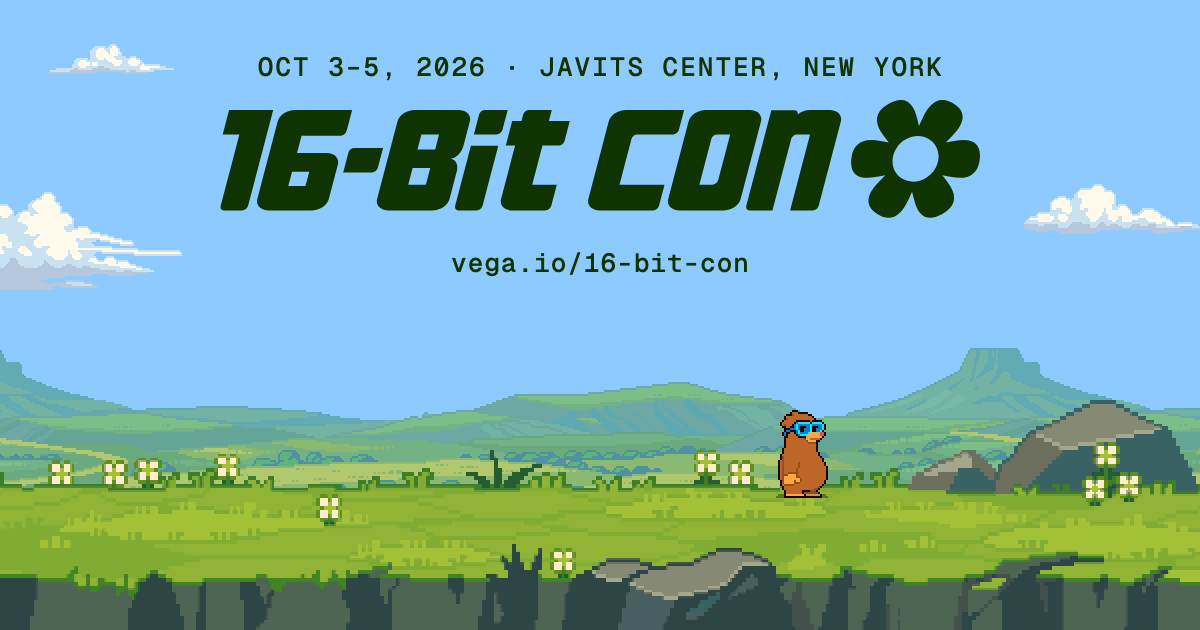
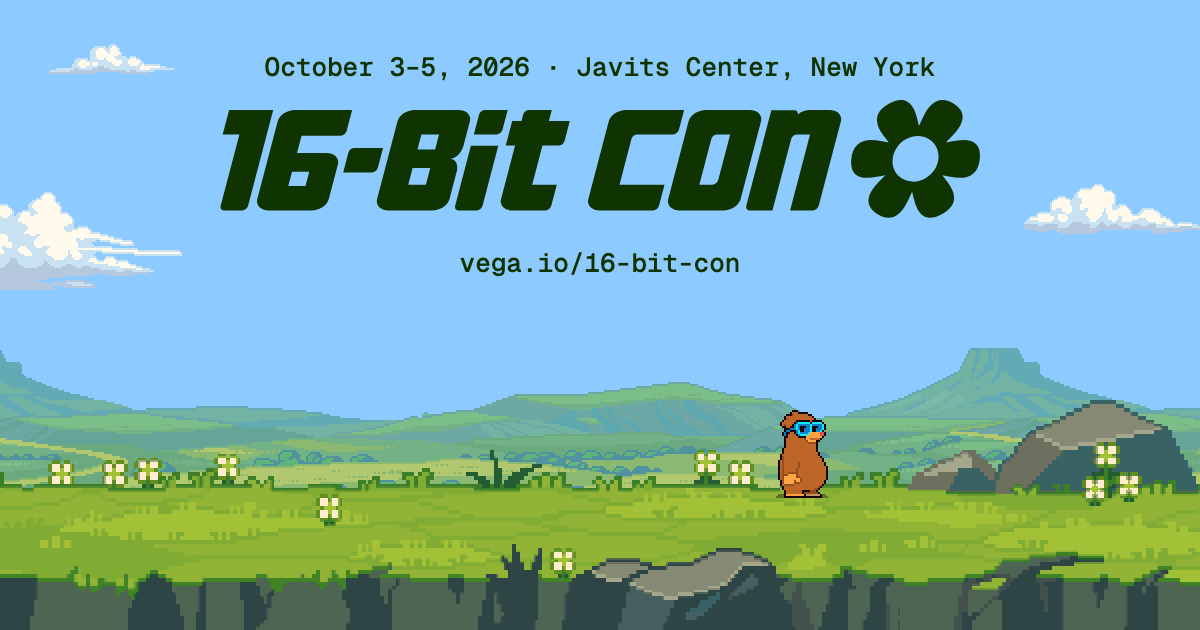
Bugs: phone taps, page width, the 404's shift, the build scripts, no-JavaScript, and nine of state and timing
- Phone: Exit game and the sound button take taps in the run (the hidden prompt lay over them).
- Phone: the dog's layer no longer makes the page wider than the screen.
- 404: nothing moves as the sky draws; the fonts it sets type in are the ones preloaded.
- Icons and social image: the scripts read the wordmark's paths again; the social image in sentence case.
- Without JavaScript: every session laid out, and no bubble for a Sam nothing can draw.
- Register: a second Enter cannot register twice; the email example is Sam's.
- Start: a double click no longer restarts the dive. Esc waits for Skip's fade; the dialog holds the zoom.
- Dialogs: the step out ends on the dialog's own animation, and its fallback timer is cleared.
- Load: a reader already scrolling is not pulled back to the top; Sam's scale holds through a toolbar resize.
- Reduced motion switched on mid-visit: the beanstalk stays gone.
- Resize: only the latest crack layout is built; the drawer hears every pixel-ratio change.
- Nav: the landmark is named Primary. The close square darkens on hover.
- Sam stays on the Register window while there is room for him under the nav.

Changed region(s): [[0.2158, 0.0905, 0.8017, 0.1206], [0.37, 0.3921, 0.6167, 0.4524]]

diff --git a/src/game/journey.ts b/src/game/journey.ts
@@ -2,9 +2,9 @@
  * Sam out on the page, once he has broken out of the game and landed on the Register window.
  *
  * Wide screens: Vega's beanstalk grows from the footer's field up past the top of the page
- * (src/game/stalk.ts). Once the Register window's title bar passes a line a little above the middle of the
- * screen (LINE), Sam jumps onto the stalk and climbs toward that line wherever the page goes: down as it scrolls
- * down, up as it scrolls up. He has his own pace (CLIMB_PACE): a fast scroll leaves him behind and he
+ * (src/game/stalk.ts). Sam stays on the Register window for as long as he and his bubble have room there under
+ * the nav. Once its title bar comes nearer the nav than that, he jumps onto the stalk and climbs toward a line a
+ * little above the middle of the screen (LINE) wherever the page goes: down as it scrolls down, up as it scrolls up. He has his own pace (CLIMB_PACE): a fast scroll leaves him behind and he
  * catches up, his climb's frames following his own movement. Near the end of the page he climbs down to the
  * footer's field, jumps off, takes a few steps and smokes; back up, he walks back, jumps on and climbs, and
  * he climbs to the window's height and jumps back onto it. Scrolled up past the window (its title bar under
@@ -28,7 +28,7 @@ import { startSky } from './sky';
 import { startDog } from './dog';
 import { CLIMB_HANDS } from '../schedule/kit';
 
-/** The line he climbs toward, as a fraction of the screen's height (above it, the Register window lets him go). */
+/** The line he climbs toward on the stalk, as a fraction of the screen's height. */
 const LINE = 0.45;
 /** Scrolling up: once the Register window's title bar sinks under this line, he leaves it and climbs up the stalk. */
 const LINE_LOW = 0.9;
@@ -95,7 +95,7 @@ interface Geo {
   L: number;
   /** The footer's ground line, page px. */
   G: number;
-  /** He leaves the window past scroll sA; the ground is his from sG. */
+  /** He leaves the window past scroll sA (no room left for him under the nav); the ground is his from sG. */
   sA: number;
   /** Above the window: scrolled up past sB (its title bar under LINE_LOW), he climbs up the stalk instead. */
   sB: number;
@@ -183,11 +183,16 @@ export async function startJourney(o: JourneyOptions): Promise<{ debug(): unknow
     const vh = window.innerHeight;
     const pr = pageRect(perch.root);
     const reg = document.getElementById('register');
-    // a little above the middle of the screen: he leaves the window once its title bar passes it
     const L = LINE * vh;
     const G = footerGroundY(scene!);
     const sMax = Math.max(0, document.documentElement.scrollHeight - vh);
-    const sA = pr.bottom - L;
+    // He leaves the window once its title bar is too near the nav for him and his bubble to stand clear of it
+    // (never later than his own line on the stalk, on a screen too short for both).
+    const navFoot = document.querySelector('.nav-slot')?.getBoundingClientRect().bottom ?? 0;
+    const bubble = perch.root.querySelector<HTMLElement>('[data-landing-bubble]');
+    // (his bubble stands 24 art px over the bar: index.astro .landing__bubble)
+    const room = Math.max((SAM_CELL - FOOT_SINK) * a, bubble ? 24 * a + bubble.offsetHeight : 0);
+    const sA = pr.bottom - Math.min(L, navFoot + room);
     const sB = pr.bottom - LINE_LOW * vh;
     const sG = Math.max(sA + 1, Math.min(G - vh + 32, sMax - GROUND_SLACK));
     // The stalk in the middle of the left margin: his body never nearer than EDGE_GAP to the screen's edge or
@@ -544,6 +549,7 @@ export async function startJourney(o: JourneyOptions): Promise<{ debug(): unknow
     } else if (stalk) stalk.layout(geo.G, geo.stemLeft, o.paused);
   };
   const relayout = () => {
+    if (raf < 0) return; // reduced motion came on: Sam is back on the Register window for good
     geo = measure();
     syncStalk(false);
     placed = '';

diff --git a/src/game/index.ts b/src/game/index.ts
@@ -717,7 +717,7 @@ export async function bootWorld(section: HTMLElement): Promise<void> {
     // the sound's context is made here, inside the click: browsers allow sound only after a gesture
     sound.unlock();
     if (mode === 'default') enterPlay();
-    else if (mode === 'play' && !paused && !zoom) start();
+    else if (mode === 'play' && !paused && !zoom && !playing) start();
   });
 
   let hero3d: Hero | null = null;
@@ -817,6 +817,7 @@ export async function bootWorld(section: HTMLElement): Promise<void> {
       pendingHit = true;
     });
   }
+  let breakoutAsk = 0;
   const layoutHero = () => {
     if (!d || !hero3d) return;
     const b = slotBox(d);
@@ -842,8 +843,12 @@ export async function bootWorld(section: HTMLElement): Promise<void> {
     const centre = h.screenUV(left + SAM_CELL / 2, top + SAM_CELL / 2);
     samOnScreen = { centre, size: Math.abs(h.screenUV(left, top)[1] - h.screenUV(left, top + SAM_CELL)[1]) };
     // The crack pattern starts from him: laid out (and uploaded) in idle time, never on a scroll frame.
+    // Only the latest: a drag-resize asks many times, and each earlier centre is already stale.
     const w = window as IdleWindow;
-    (w.requestIdleCallback ?? ((cb: () => void) => window.setTimeout(cb, 200)))(() => hero3d?.prepareBreakout(centre));
+    const ask = ++breakoutAsk;
+    (w.requestIdleCallback ?? ((cb: () => void) => window.setTimeout(cb, 200)))(() => {
+      if (ask === breakoutAsk) hero3d?.prepareBreakout(centre);
+    });
   };
   /** No 3D after all (no WebGL 2, an error, too slow): the powered-on poster, PRESS START on it. */
   const toStatic = (why: unknown) => {
@@ -1348,7 +1353,8 @@ export async function bootWorld(section: HTMLElement): Promise<void> {
    * itself out in ~2.4 s) Esc does nothing.
    */
   const exitPlay = () => {
-    if (mode !== 'play' || regDialog?.open || exiting) return;
+    // (not in the middle of Skip's fade either: its jump would land in the zoom out)
+    if (mode !== 'play' || regDialog?.open || exiting || skipFade) return;
     cancelOpening();
     const tl = timeline.t;
     const q = qAt(tl);
@@ -1489,6 +1495,7 @@ export async function bootWorld(section: HTMLElement): Promise<void> {
       const away = clockNow() - pausedAt;
       if (playing && playing.t0 >= 0) playing.t0 += away;
       if (breakPlay && breakPlay.t0 >= 0) breakPlay.t0 += away;
+      if (zoom && zoom.t0 >= 0) zoom.t0 += away;
       if (opening && opening.phase !== 'done') {
         opening.t0 += away;
         opening.flyer.shift(away);
@@ -1896,14 +1903,15 @@ export async function bootWorld(section: HTMLElement): Promise<void> {
     // frozen where it is); the monitor at rest on the page, showing the game where the player left it.
     let zoomEnded = false;
     let heroP = inBreakout ? 1 - clamp01(q / BREAKOUT.pullBack[1]) : p;
-    if (zoom) {
+    // (held under the Register dialog like every other play: the camera waits where it was)
+    if (zoom && !(paused && zoom.t0 < 0)) {
       if (zoom.t0 < 0) {
         zoom.t0 = now;
         const lag = frameLag(now);
         cueFor(zoom, zoom.p1 > zoom.p0 ? sound.enter(Math.min(PLAY.dive, playMs(zoom.p1)), lag, glassMs()) : sound.exit(playMs(zoom.p0), lag));
       }
       const dir = zoom.p1 >= zoom.p0 ? 1 : -1;
-      const zp = playP(playMs(zoom.p0) + dir * (now - zoom.t0));
+      const zp = playP(playMs(zoom.p0) + dir * Math.max(0, (paused ? pausedAt : now) - zoom.t0));
       heroP = dir > 0 ? Math.min(zp, zoom.p1) : Math.max(zp, zoom.p1);
       zoomEnded = heroP === zoom.p1;
     } else if (mode === 'default') heroP = 0;

diff --git a/src/game/register-dialog.ts b/src/game/register-dialog.ts
@@ -22,6 +22,19 @@ export function createRegisterDialog(hooks: { onOpen(): void; onClose(): void })
 
   /** Close with its 150 ms step out (at once with reduced motion); Esc, the close square and a click outside all come here. */
   let closing = false;
+  let timer = 0;
+  /** The step out has played (or its time is up): close for real. */
+  const finish = () => {
+    if (!closing) return;
+    closing = false;
+    window.clearTimeout(timer);
+    dialog.classList.remove('is-closing');
+    dialog.close();
+  };
+  // the dialog's own step out, not an animation ending inside it (the form's)
+  dialog.addEventListener('animationend', (e) => {
+    if (e.target === dialog) finish();
+  });
   const close = () => {
     if (!dialog.open || closing) return;
     if (matchMedia('(prefers-reduced-motion: reduce)').matches) {
@@ -30,14 +43,7 @@ export function createRegisterDialog(hooks: { onOpen(): void; onClose(): void })
     }
     closing = true;
     dialog.classList.add('is-closing');
-    const finish = () => {
-      if (!closing) return;
-      closing = false;
-      dialog.classList.remove('is-closing');
-      dialog.close();
-    };
-    dialog.addEventListener('animationend', finish, { once: true });
-    window.setTimeout(finish, 400);
+    timer = window.setTimeout(finish, 400);
   };
   win.querySelector<HTMLButtonElement>('[data-window-close]')?.addEventListener('click', close);
   // Esc: the same step out (a second Esc while it runs closes it at once, as the browser decides)
@@ -52,6 +58,7 @@ export function createRegisterDialog(hooks: { onOpen(): void; onClose(): void })
 
   dialog.addEventListener('close', () => {
     closing = false;
+    window.clearTimeout(timer);
     dialog.classList.remove('is-closing');
     if (marker) {
       marker.replaceWith(win);

diff --git a/src/game/dog.ts b/src/game/dog.ts
@@ -49,8 +49,10 @@ export async function startDog(o: DogOptions): Promise<{ wake(): void } | null> 
   canvas.width = SAM_CELL;
   canvas.height = SAM_CELL;
   el.append(canvas);
-  Object.assign(el.style, { position: 'absolute', left: '0', top: '0', zIndex: '6', pointerEvents: 'none', display: 'none' });
-  Object.assign(canvas.style, { display: 'block', width: '100%', height: '100%', imageRendering: 'pixelated' });
+  // A band as wide as the page that clips what it holds, like the page's sky: the dog trots in from past the
+  // right edge, and a box out there on its own would make the page wider than the screen.
+  Object.assign(el.style, { position: 'absolute', left: '0', top: '0', width: '100%', overflow: 'hidden', zIndex: '6', pointerEvents: 'none', display: 'none' });
+  Object.assign(canvas.style, { display: 'block', imageRendering: 'pixelated' });
   document.body.append(el);
 
   let phase: Phase = 'away';
@@ -172,9 +174,11 @@ export async function startDog(o: DogOptions): Promise<{ wake(): void } | null> 
     const dpr = window.devicePixelRatio || 1;
     const size = SAM_CELL * s;
     const y = footerGroundY(scene) - (SAM_CELL - FOOT_SINK) * s;
-    el.style.width = `${size}px`;
     el.style.height = `${size}px`;
-    el.style.transform = `translate(${Math.round(x * dpr) / dpr}px, ${Math.round(y * dpr) / dpr}px)`;
+    el.style.transform = `translateY(${Math.round(y * dpr) / dpr}px)`;
+    canvas.style.width = `${size}px`;
+    canvas.style.height = `${size}px`;
+    canvas.style.transform = `translateX(${Math.round(x * dpr) / dpr}px)`;
     el.style.display = '';
     return true;
   };

diff --git a/src/game/flyer-dialog.ts b/src/game/flyer-dialog.ts
@@ -17,6 +17,7 @@ export function createFlyerDialog(hooks: { onOpen(): void; onClose(): void; /** 
 
   let closing = false;
   let shown = false;
+  let timer = 0;
   /**
    * Everything after it has closed, once. Called right after close() as well as from the close event: Chrome
    * can close a modal without firing that event (seen after focus had left it and come back), and the game
@@ -26,6 +27,7 @@ export function createFlyerDialog(hooks: { onOpen(): void; onClose(): void; /** 
     if (!shown) return;
     shown = false;
     closing = false;
+    window.clearTimeout(timer);
     dialog.classList.remove('is-closing');
     document.documentElement.classList.remove('is-reading');
     hooks.onClose();
@@ -51,7 +53,7 @@ export function createFlyerDialog(hooks: { onOpen(): void; onClose(): void; /** 
     }
     closing = true;
     dialog.classList.add('is-closing');
-    window.setTimeout(finish, 400);
+    timer = window.setTimeout(finish, 400);
   };
   go.addEventListener('click', close);
   dialog.addEventListener('cancel', (e) => {

diff --git a/src/register/form.ts b/src/register/form.ts
@@ -15,7 +15,7 @@ export type FieldName = 'name' | 'email' | 'pass';
 export const MESSAGES = {
   name: 'Enter your name.',
   emailEmpty: 'Enter your email address.',
-  emailInvalid: 'Enter a valid email address, like name@example.com.',
+  emailInvalid: 'Enter a valid email address, like sam@vega.io.',
   pass: 'Choose a pass.',
 } as const;
 
@@ -160,8 +160,12 @@ export function initRegisterForm(hooks: FormHooks): RegisterFormApi | null {
     };
     submit.removeAttribute('aria-disabled');
     submitText.textContent = 'Register now';
-    busy = false;
-    await hooks.onRegistered(registration);
+    // still busy until the form has given way to the pass: a second Enter meanwhile must not register again
+    try {
+      await hooks.onRegistered(registration);
+    } finally {
+      busy = false;
+    }
   });
 
   // aria-disabled keeps the button focusable while it waits; a click on it then does nothing

diff --git a/src/schedule/drawer.ts b/src/schedule/drawer.ts
@@ -238,7 +238,18 @@ export function bootDrawer(drawer: HTMLElement): void {
   };
   snap();
   new ResizeObserver(snap).observe(document.body);
-  matchMedia(`(resolution: ${window.devicePixelRatio || 1}dppx)`).addEventListener('change', snap);
+  // A query for the pixel ratio as it is now hears only the change away from it, so each change sets the next.
+  const watchRatio = () => {
+    matchMedia(`(resolution: ${window.devicePixelRatio || 1}dppx)`).addEventListener(
+      'change',
+      () => {
+        snap();
+        watchRatio();
+      },
+      { once: true },
+    );
+  };
+  watchRatio();
 
   // Every folder holds a frame of its scene (out of sight while it is closed, below its clear strip); the
   // open one plays. The server drew the opening state; the scenes fade in as they are drawn.

diff --git a/src/styles/tokens.css b/src/styles/tokens.css
@@ -38,10 +38,11 @@
   --color-blue-700: #2189E5;
   --color-blue-900: #0072D6;
 
-  /* Two tokens outside the brand palette. The close red from Vega's own game UI (vega.io's notepad.exe):
-     the dialogs' close squares. The flyer's paper, the cream of Vega's poster art (as in the flyer mock):
-     the flyer, in the world and opened. */
+  /* Tokens outside the brand palette. The close red from Vega's own game UI (vega.io's notepad.exe):
+     the dialogs' close squares, and the darker red is that square on hover. The flyer's paper, the cream
+     of Vega's poster art (as in the flyer mock): the flyer, in the world and opened. */
   --color-close: #C74842;
+  --color-close-hover: #A22D2C;
   --color-paper: #FFE9B8;
 
   /* Semantic aliases: colour by role, nothing else.
